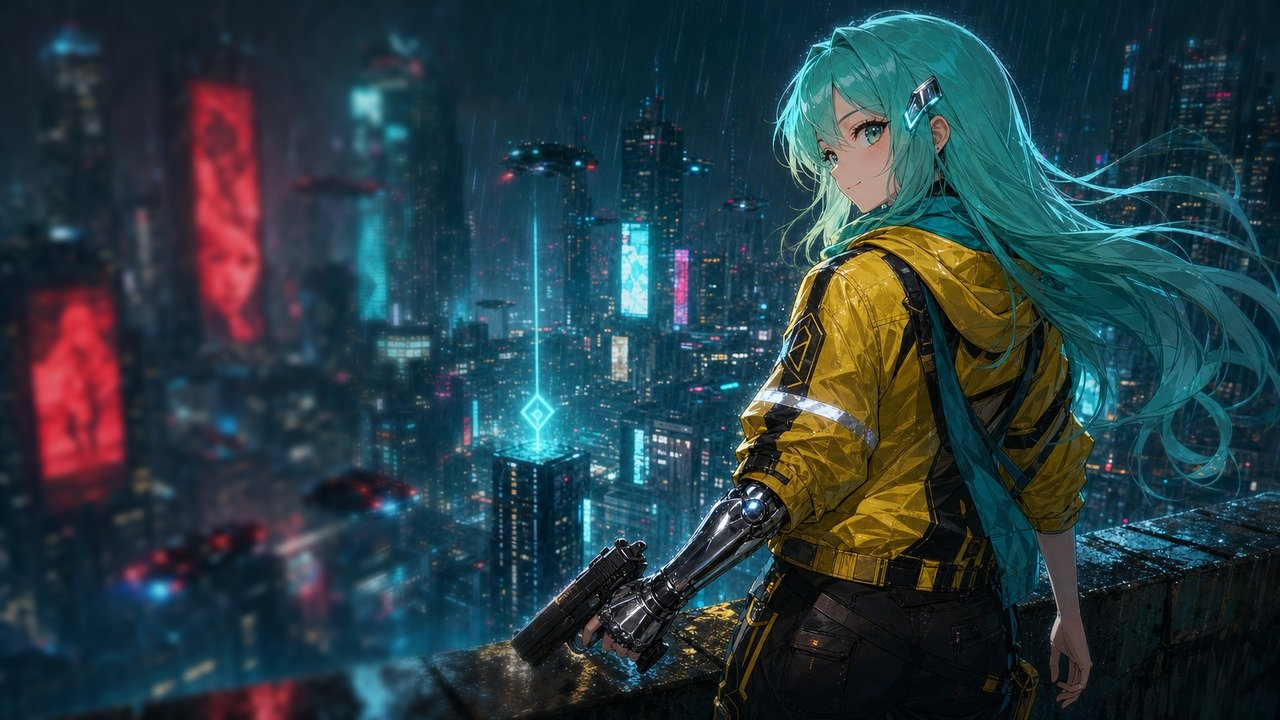
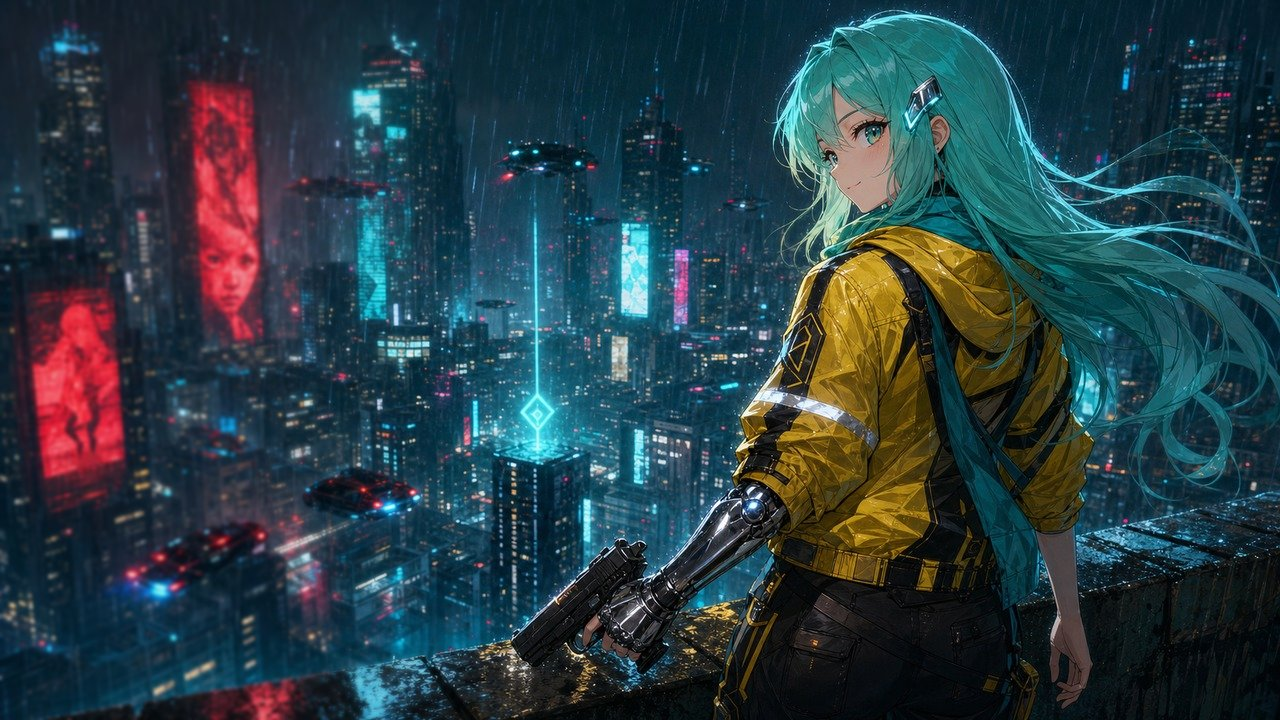
feat: 원본 보기 1:1 팬 + 카드 태그를 파일철 탭처럼 + 두 썸네일 블러 완화
- 라이트박스: 축소해서 맞추던 방식을 버리고 항상 원본 픽셀(1280x720)로 두고, 화면보다
  크면 상자를 스크롤(팬)하게 했다. 여는 순간 가운데로 스크롤을 맞추고, 마우스는 드래그
  팬(터치는 네이티브 스크롤이 이미 팬이라 pointer 캡처를 걸지 않음 — 걸면 관성을 잃는다).
  캡션에 "1280×720 · 1:1 · 드래그해 이동" 표기
  ⚠ 상자 테두리를 border 로 주면 box-sizing:border-box 가 콘텐츠 폭을 2px 깎아 1280 이미지가
    1278 상자에 들어가며 데스크톱에서도 팬으로 오판정됐다 → outline 으로 교체
  ⚠ 세로 모드에선 제목이 2줄로 접히며 하단 바가 화면 밖으로 밀려 '닫기'를 누를 수 없었다
    (고정 오버레이라 스크롤로도 못 닿음) → 상자 높이를 바 몫만큼 줄이고 바는 한 줄 고정,
    버튼은 44px 확보
- 카드 카테고리 태그: 썸네일 위에 떠 있던 것을 썸네일 '뒤'(z-index 0)로 넣고 위로만 17px
  삐져나오게 했다 — 파일철에 끼운 인덱스 탭/포스트잇 모양(위만 둥근 탭 + -1.5deg 기울기).
  hover 로 썸네일이 들리면 탭도 살짝 세워진다
- 사이버펑크·열혈강호 배경 블러가 여전히 과했다 → sigma 1.8 / 1.2 로 낮추고 감광도 완화
  (0.96 / 0.98), 선명 유지 반경(core)도 0.70 으로 넓혀 배경 디테일을 살렸다

diff --git a/src/styles/global.css b/src/styles/global.css
@@ -2522,15 +2522,34 @@ body::after {
 .vcard {
   position: relative;
   overflow: visible;
-  padding-top: 27px; /* 태그 높이(25px) + 2px — 썸네일과 겹치지 않는 최소값 */
+  /* 태그가 썸네일 '뒤에서' 위로 삐져나오는 만큼만 확보 (파일철에 붙인 인덱스 탭 느낌).
+     태그 전체 높이보다 작게 잡아야 아랫부분이 썸네일에 가려진다. */
+  padding-top: 17px;
 }
 .vcard-cat {
   top: 0;
-  left: 10px;
-  z-index: 3;
+  left: 9px;
+  z-index: 0; /* 썸네일(z-index:1) 뒤 — 아래쪽이 가려져 '끼워 넣은' 탭처럼 보인다 */
+  padding: 3px 11px 8px; /* 아래 패딩은 가려지는 몫 */
+  border-radius: 8px 8px 3px 3px; /* 위만 둥근 탭 모양 */
+  background: rgba(14, 16, 22, 0.94);
+  backdrop-filter: none;
+  transform: rotate(-1.5deg); /* 살짝 비뚤게 붙인 포스트잇 */
+  transform-origin: bottom left;
   color: var(--cat-glow, var(--host));
   border-color: var(--cat-glow-soft, rgba(255, 255, 255, 0.18));
-  box-shadow: 0 0 12px -4px var(--cat-glow, transparent);
+  box-shadow:
+    0 -3px 10px -4px rgba(0, 0, 0, 0.8),
+    0 0 12px -4px var(--cat-glow, transparent);
+  transition: transform 0.25s ease;
+}
+/* 썸네일이 태그를 덮어야 '뒤에 끼운' 느낌이 난다 */
+.vcard-thumb {
+  z-index: 1;
+}
+/* hover 로 썸네일이 4px 들리면 탭이 그만큼 더 드러난다 — 같이 살짝 세워 준다 */
+.vcard:hover .vcard-cat {
+  transform: rotate(-3deg) translateY(-2px);
 }
 /* 카테고리별 글로우 색 */
 .vcard[data-cat='new']    { --cat-glow: #57e6c3; --cat-glow-soft: rgba(87, 230, 195, 0.5); }
